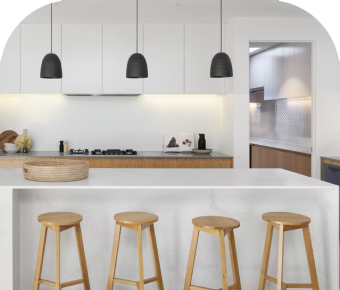
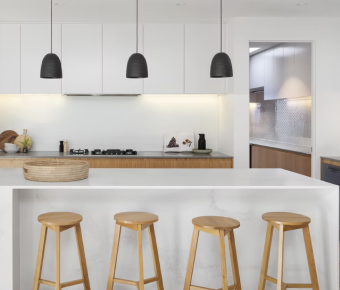
Edit images and border radius

Changed region(s): [[0.8235, 0.0, 1.0, 0.2172], [0.0, 0.0, 0.1765, 0.2172]]

diff --git a/assets/css/style.css b/assets/css/style.css
@@ -292,7 +292,7 @@ a svg {
   font-size: 22px;
 }
 .articles .card {
-  border-radius: 83px;
+  border-radius: 62px;
   margin-bottom: 20px;
 }
 
@@ -308,6 +308,10 @@ a svg {
 .logo {
   margin-bottom: 15px;
   margin-right: 15px;
+}
+.card-in {
+  border-top-right-radius: 18%;
+  border-top-left-radius: 18%;
 }
 .a1 {
   background-image: url("../images/a1.png");
